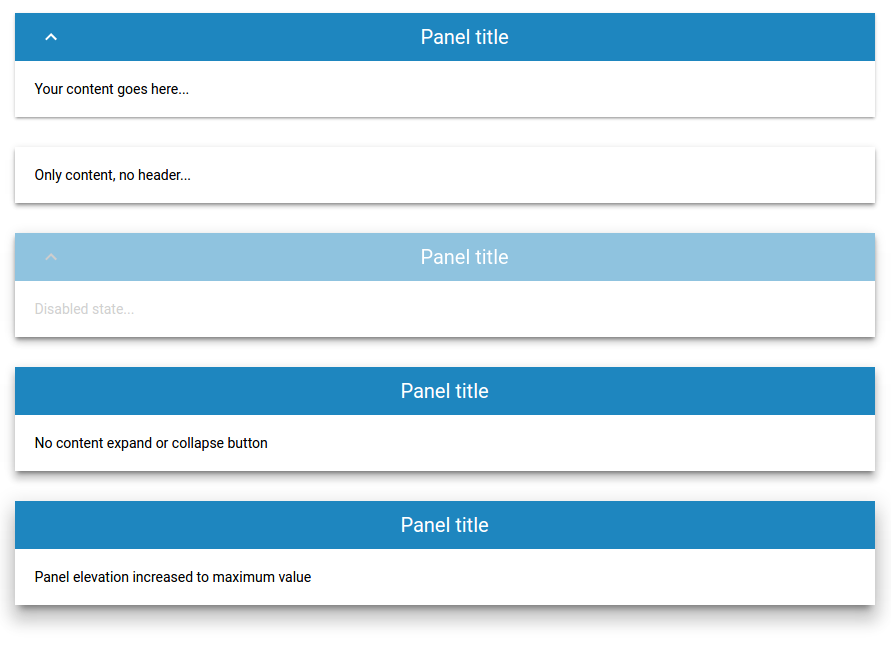
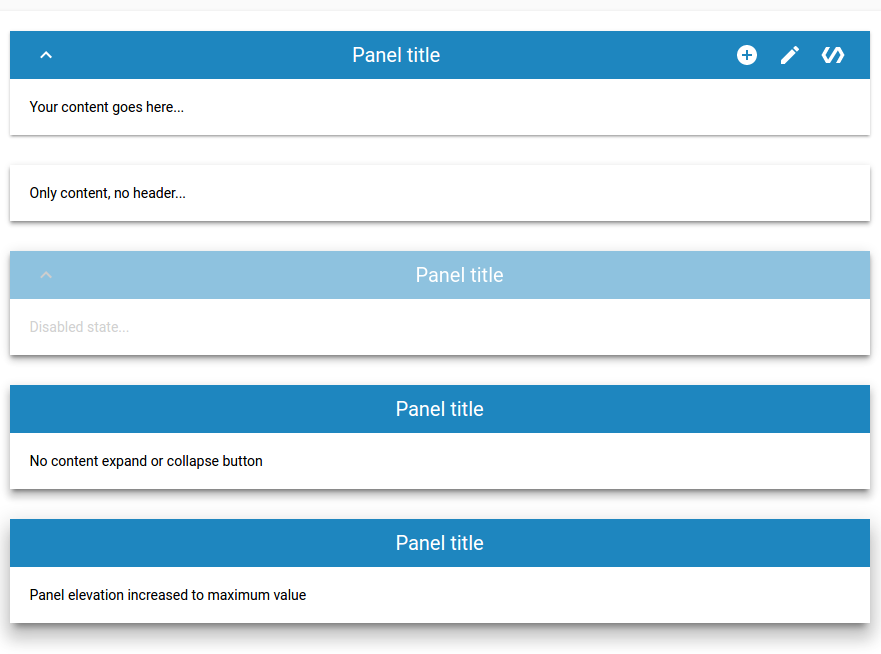
slotted content in the right side of the title(for panel action btns), style updates

diff --git a/demo/index.html b/demo/index.html
@@ -6,8 +6,17 @@
     <meta name="viewport" content="width=device-width, minimum-scale=1.0, initial-scale=1, user-scalable=yes">
     <script src="../../webcomponentsjs/webcomponents-lite.js"></script>
 
+    <script>
+      window.Polymer = {
+        dom: 'shadow',
+        lazyRegister: true
+      };
+    </script>
+
     <link rel="import" href="../../iron-demo-helpers/demo-pages-shared-styles.html">
     <link rel="import" href="../../iron-demo-helpers/demo-snippet.html">
+    <link rel="import" href="../../paper-icon-button/paper-icon-button.html">
+    <link rel="import" href="../../iron-icons/iron-icons.html">
 
     <link rel="import" href="../etools-content-panel.html">
 
@@ -28,6 +37,11 @@
       <demo-snippet>
         <template>
           <etools-content-panel panel-title="Panel title" show-expand-btn>
+            <div slot="panel-btns">
+              <paper-icon-button icon="add-circle"></paper-icon-button>
+              <paper-icon-button icon="create"></paper-icon-button>
+              <paper-icon-button icon="polymer"></paper-icon-button>
+            </div>
             <div>Your content goes here...</div>
           </etools-content-panel>
 

diff --git a/etools-content-panel.html b/etools-content-panel.html
@@ -26,6 +26,7 @@ Custom property | Description | Default
 `--ecp-disabled-color` | Content disabled color | `#d1d1d1`
 `--epc-toolbar-content` | Mixin applied to toolbar content | `{}`
 `--epc-toolbar` | Mixin applied to paper-toolbar element | `{}`
+`--ecp-header-btns-wrapper` | Mixin appplied to panel header right btns container | `{}`
 
 @demo demo/index.html
 -->
@@ -62,6 +63,11 @@ Custom property | Description | Default
         }
       }
 
+      #panel-btns-wrapper {
+        opacity: 0.8;
+        @apply(--ecp-header-btns-wrapper);
+      }
+
       .disabled paper-toolbar {
         opacity: 0.5;
         @apply(--ecp-header-disabled);
@@ -87,6 +93,9 @@ Custom property | Description | Default
                            hidden$="[[!showExpandBtn]]"
                            disabled$="[[isDisabled]]"></paper-icon-button>
         <div class="title">[[panelTitle]]</div>
+        <div id="panel-btns-wrapper">
+          <slot name="panel-btns"></slot>
+        </div>
       </paper-toolbar>
       <iron-collapse opened="{{open}}">
         <div id="content-wrapper">

diff --git a/README.md b/README.md
@@ -1,12 +1,19 @@
 # \<etools-content-panel\>
 
 A simple panel with header to display a collapsible content.
+The deader can also have buttons on the right side on the title (slotted content `slot="panel-btns""`, 
+check first usage example).
 
 ![alt tag](etools-content-panel-demo.png)
 
 ## Usage
 ```html
 <etools-content-panel panel-title="Panel title" show-expand-btn>
+  <div slot="panel-btns">
+    <paper-icon-button icon="add-circle"></paper-icon-button>
+    <paper-icon-button icon="create"></paper-icon-button>
+    <paper-icon-button icon="polymer"></paper-icon-button>
+  </div>
   <div>Your content goes here...</div>
 </etools-content-panel>
 
@@ -53,6 +60,7 @@ Custom property | Description | Default
 `--ecp-disabled-color` | Content disabled color | `#d1d1d1`
 `--epc-toolbar-content` | Mixin applied to toolbar content | `{}`
 `--epc-toolbar` | Mixin applied to paper-toolbar element | `{}`
+`--ecp-header-btns-wrapper` | Mixin appplied to panel header right btns container | `{}`
 
 
 ## Install
